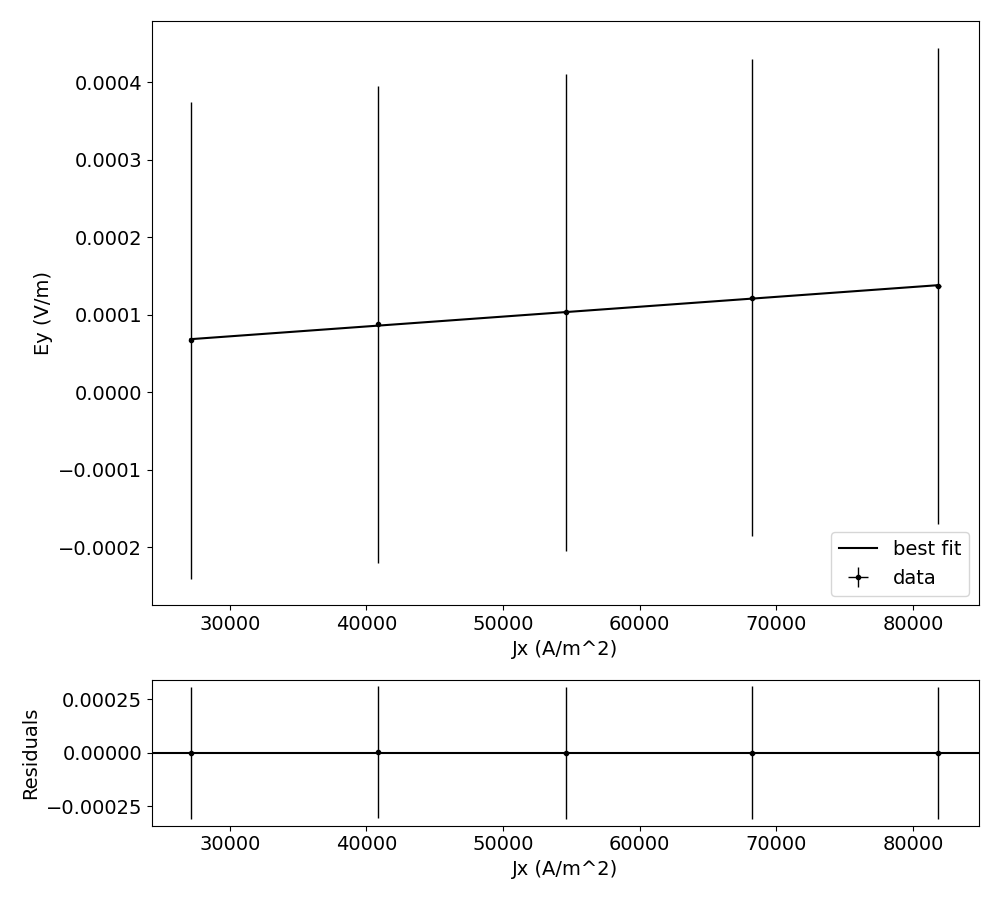
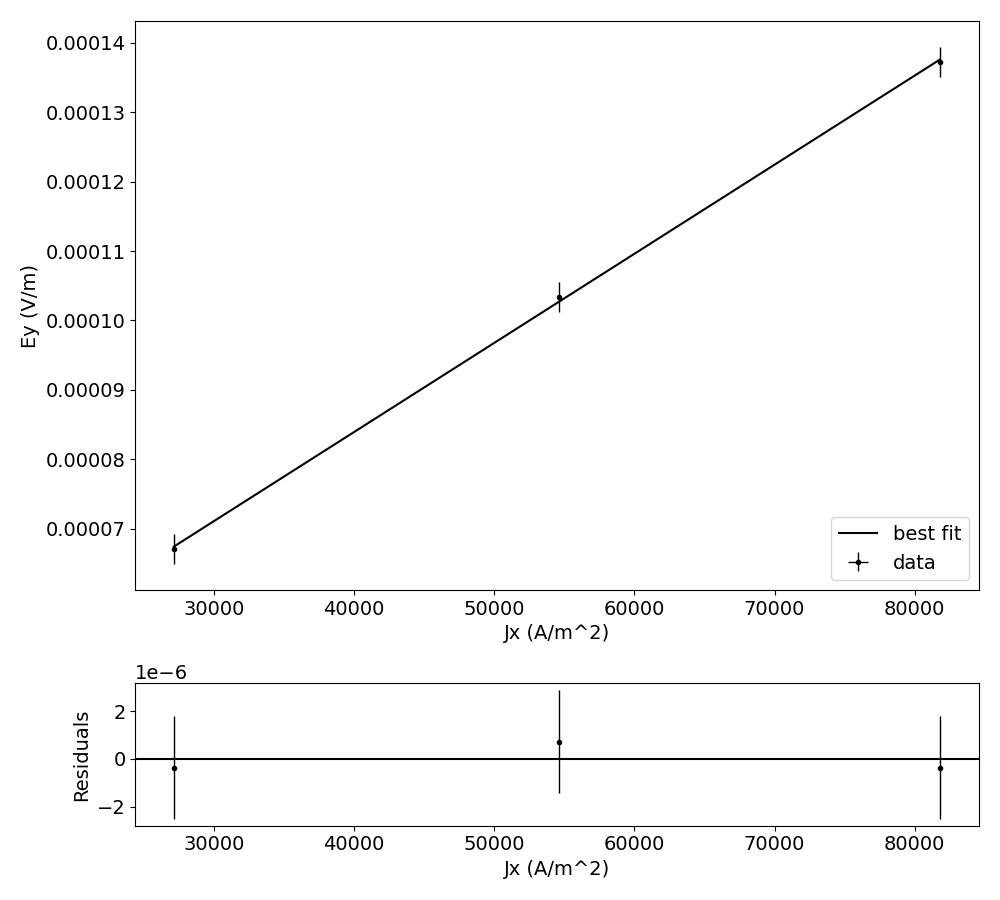
test

diff --git a/lab6-hall-effect/analysis.py b/lab6-hall-effect/analysis.py
@@ -10,11 +10,11 @@ def linear(x, m,b):
 
 # Dimensions 
 width = 16.25e-2     # meters
-width_err = 0.05e-2 # meters
+width_err = 0.005e-2 # meters
 
 # Calculate thickness 
 thickness = (2 / 26.15e-2) * 2945E-10   # meters
-thickness_err = tools.error_mult(2945E-10, 2 / 26.15e-2, 0, 0.05e-2, sol=thickness)
+thickness_err = tools.error_mult(2945E-10, 2 / 26.15e-2, 0, 0.005e-2, sol=thickness)
 
 # Currents and voltages 
 currents = [9.93, 14.96, 19.98, 24.97, 29.95]  # in mA
@@ -37,15 +37,14 @@ for key in voltages.keys():
 # Propagate uncertainty in Ey
 E_y_err = {}
 for key in voltages.keys():
-    E_y_err[key] = [tools.error_mult(v * 1E-3, width, 0.05E-3, width_err, sol=v * 1E-3 / width) for v in voltages[key]]
+    E_y_err[key] = [tools.error_mult(v * 1E-3, width, 0.00035E-3, width_err, sol=v * 1E-3 / width) for v in voltages[key]]
 
 m = {}
-b = {}
 chi2 = {}
 red_chi2 = {}
 for key in voltages.keys():
     popt, perr = bb.plot_fit(linear, Jx, E_y[key], Jx_err, E_y_err[key],
-                             init_guess=[1E-9,0],  # Adjusted for expected order of magnitude
+                             init_guess=[1E-11,0], 
                              xlabel="Jx (A/m^2)",
                              ylabel="Ey (V/m)",
                              filename="graph" + str(key) + ".png")
@@ -65,7 +64,6 @@ for key in voltages.keys():
     Rh_value = m[key][0] / (key * 10**-3)  # Convert key from mT to T
     Rh.append(Rh_value)
     print(f"Rh for {key} mT: {Rh_value:.3e} m^3/C")
-
 # Average Rh and compute uncertainty
 Rh_mean = np.mean(Rh)
 Rh_std = np.std(Rh, ddof=1) / np.sqrt(len(Rh))  # Standard error of the mean
